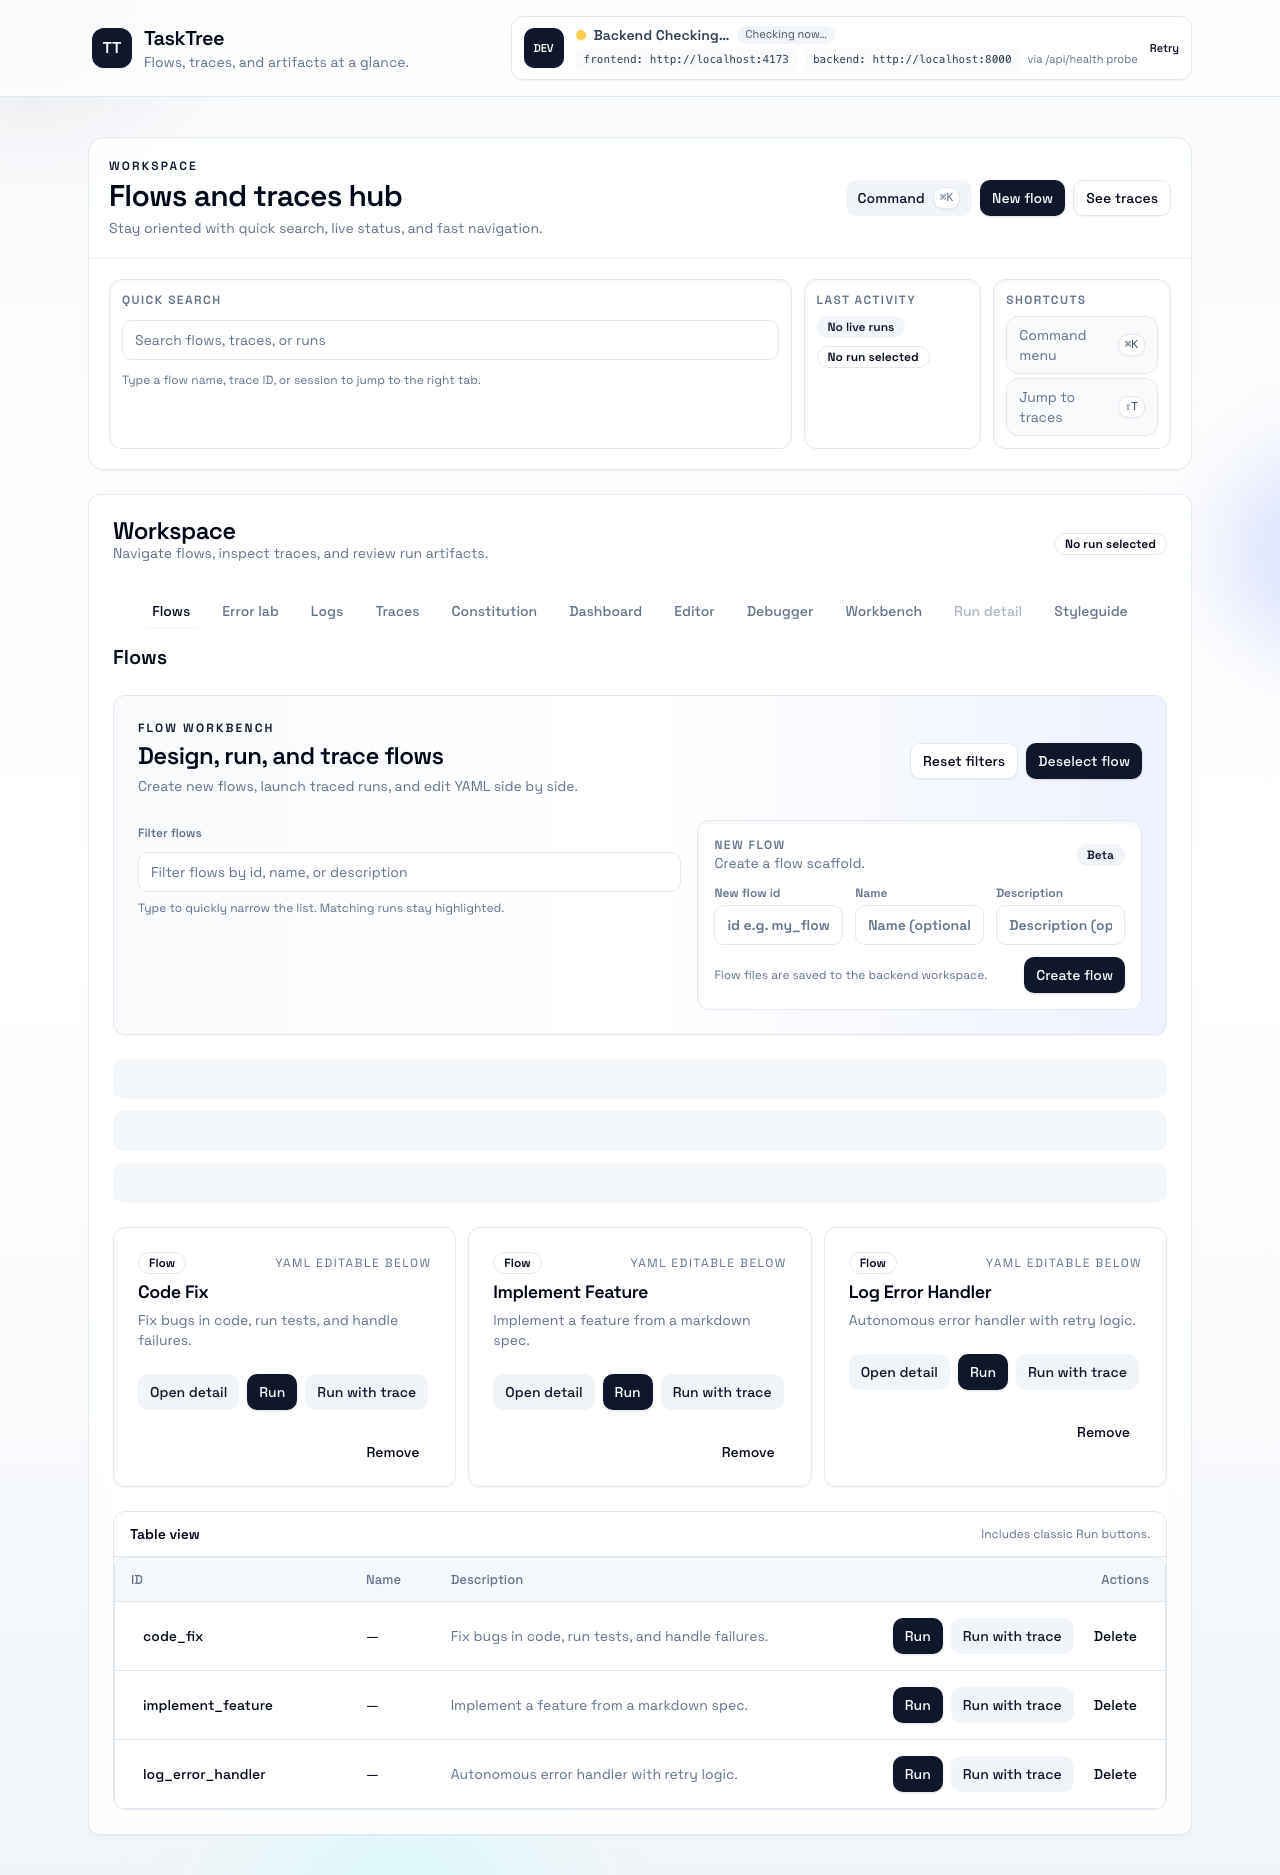
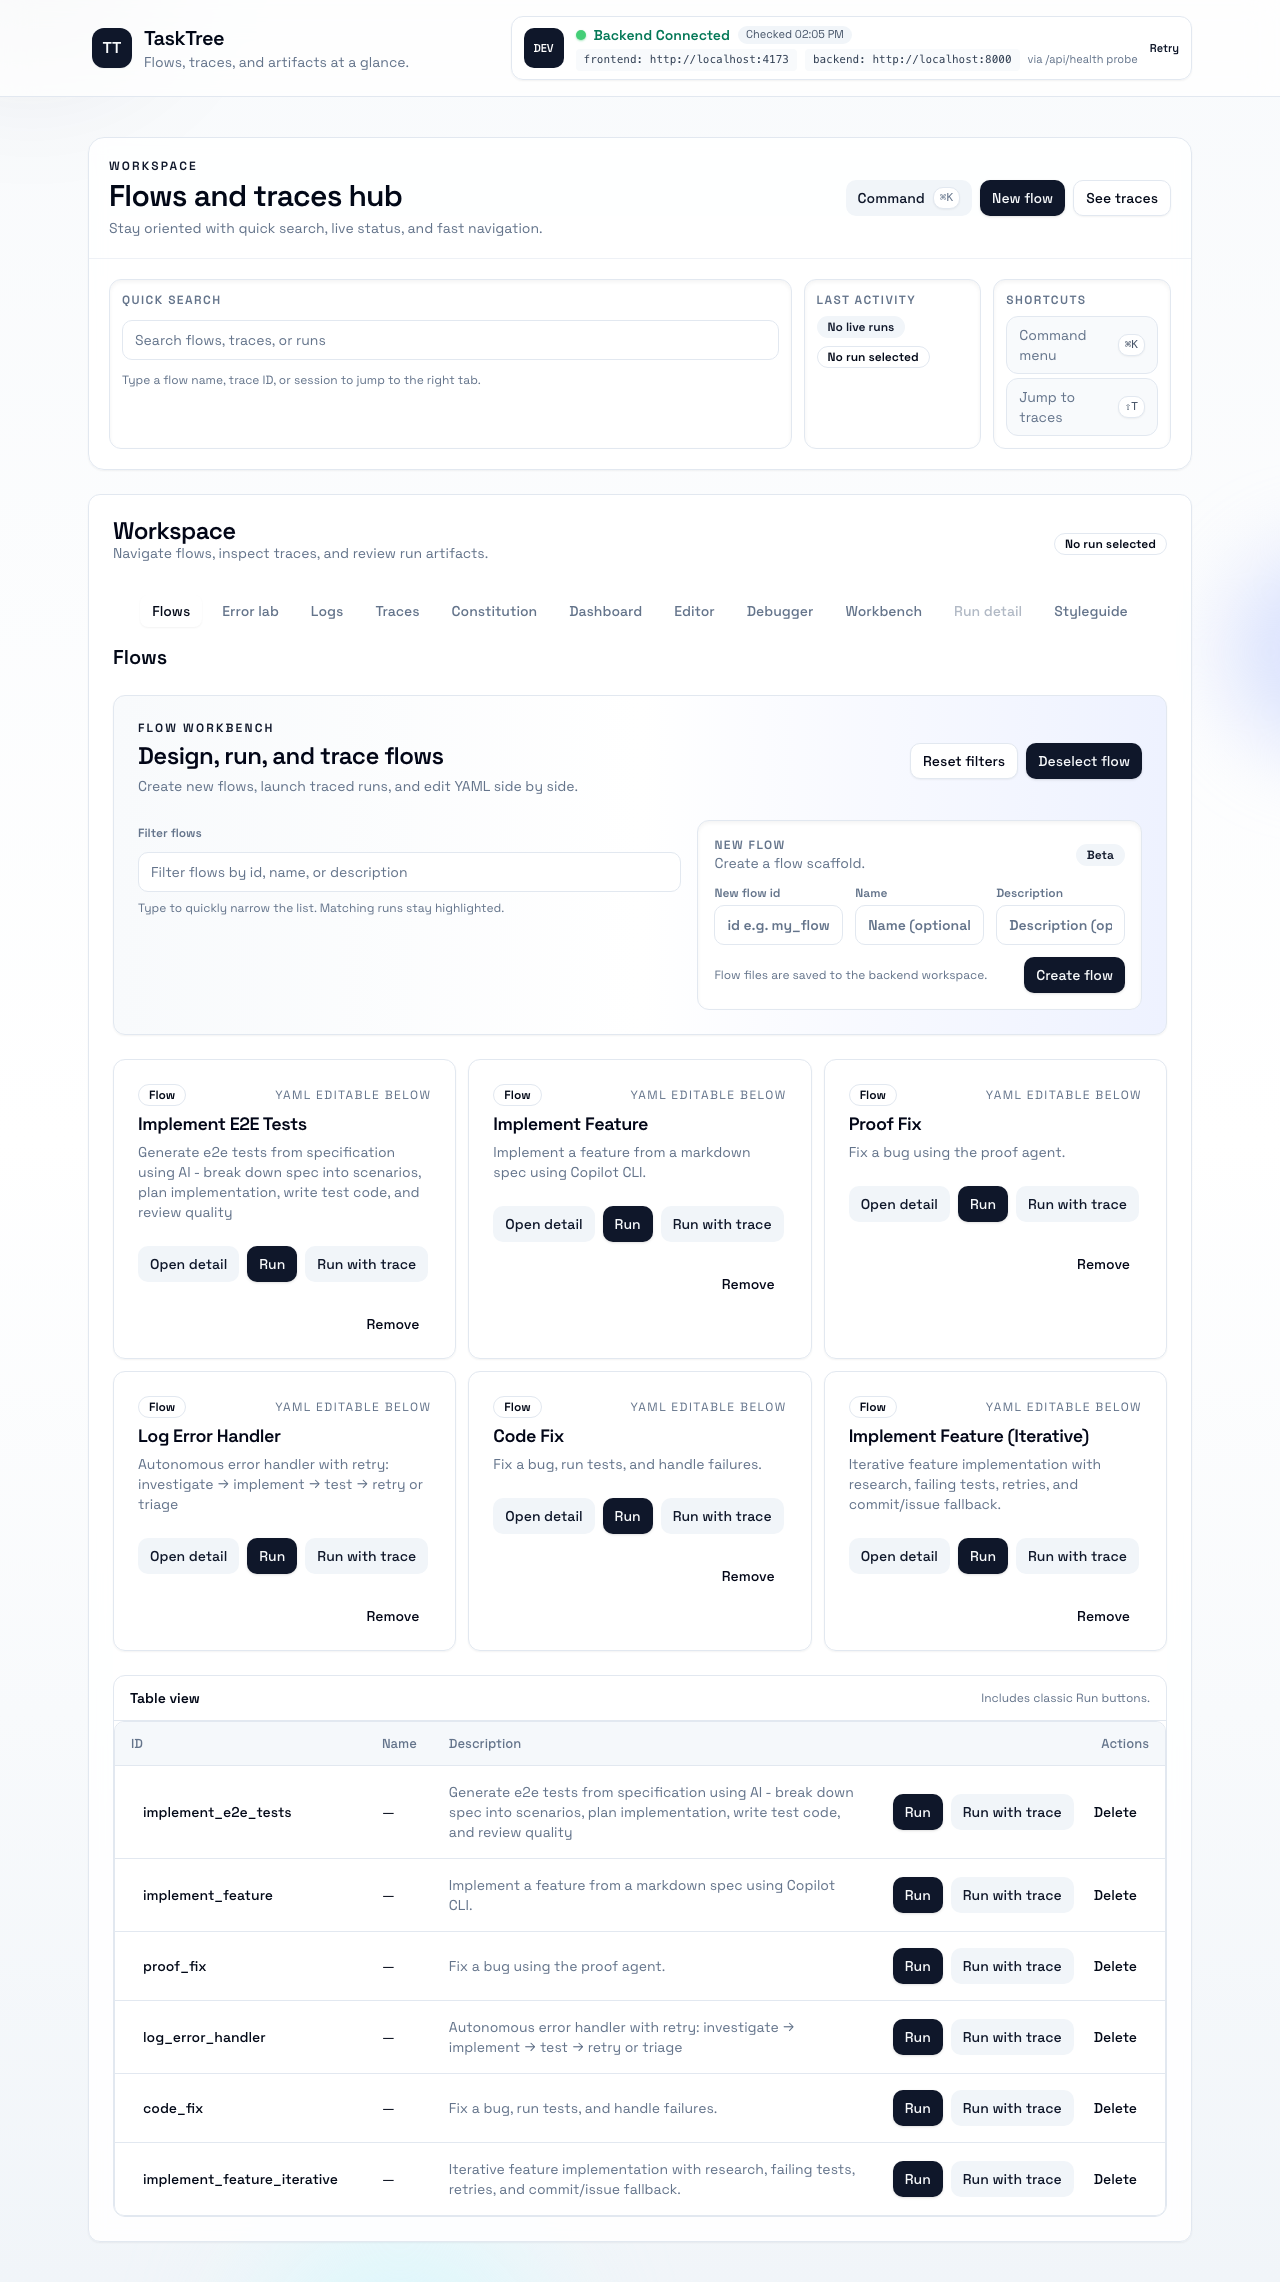
Add dark-mode UI screenshots and update capture flow

diff --git a/frontend/tests/e2e/screenshot.spec.ts b/frontend/tests/e2e/screenshot.spec.ts
@@ -3,8 +3,10 @@ import fs from "node:fs";
 import path from "node:path";
 
 const outDir = path.resolve(__dirname, "..", "..", "docs", "images");
-const heroPath = path.join(outDir, "ui-hero.png");
-const flowsPath = path.join(outDir, "ui-flows.png");
+const heroLight = path.join(outDir, "ui-hero.png");
+const flowsLight = path.join(outDir, "ui-flows.png");
+const heroDark = path.join(outDir, "ui-hero-dark.png");
+const flowsDark = path.join(outDir, "ui-flows-dark.png");
 
 test("capture hero and flows view screenshots", async ({ page, baseURL }) => {
   fs.mkdirSync(outDir, { recursive: true });
@@ -13,12 +15,19 @@ test("capture hero and flows view screenshots", async ({ page, baseURL }) => {
 
   const hero = page.getByTestId("workspace-hero");
   await expect(hero).toBeVisible();
-  await page.screenshot({ path: heroPath, fullPage: true });
+  await page.screenshot({ path: heroLight, fullPage: true });
 
   const flowsTab = page.getByRole("tab", { name: /Flows/i });
   await flowsTab.click();
   await page.waitForTimeout(300); // allow flows card/layout to settle
   const flowsCard = page.getByTestId("workspace-tabs");
   await expect(flowsCard).toBeVisible();
-  await page.screenshot({ path: flowsPath, fullPage: true });
+  await page.screenshot({ path: flowsLight, fullPage: true });
+
+  // Dark mode
+  await page.keyboard.press(process.platform === "darwin" ? "Meta+J" : "Control+J");
+  await page.waitForTimeout(250);
+  await page.screenshot({ path: heroDark, fullPage: true });
+  await page.waitForTimeout(250);
+  await page.screenshot({ path: flowsDark, fullPage: true });
 });

diff --git a/README.md b/README.md
@@ -119,9 +119,12 @@ See `docs/tasktree-cli-usage.md` for a complete walkthrough (tested in CI), `AGE
 - Styling conventions: prefer shared tokens (`--background`, `--primary`, `--radius`) over ad-hoc colors; use utility merges via `cn` from `@/lib/utils`.
 - Testing: run `npm run test` (Vitest) and `npm run e2e` (Playwright) after UI changes; Peekaboo captures live under `frontend/tests/e2e/peekaboo-*.spec.ts`.
 - Docs: see `docs/FE_SHADCN_CONTEXT.md` for design tokens/brand inputs and `docs/FE_SHADCN_GUIDE.md` for quick start + recipes.
+- Theme toggles: press `Cmd/Ctrl + J` to toggle dark mode in the app (uses the `.dark` theme variables in `frontend/src/index.css`).
 - Screenshots: latest UI previews live in `frontend/docs/images` (captured via `pnpm --dir frontend exec playwright test tests/e2e/screenshot.spec.ts --workers=1`).
-  - Workspace hero: ![TaskTree workspace hero](frontend/docs/images/ui-hero.png)
-  - Flows view: ![TaskTree flows view](frontend/docs/images/ui-flows.png)
+  - Workspace hero (light): ![TaskTree workspace hero](frontend/docs/images/ui-hero.png)
+  - Flows view (light): ![TaskTree flows view](frontend/docs/images/ui-flows.png)
+  - Workspace hero (dark): ![TaskTree workspace hero dark](frontend/docs/images/ui-hero-dark.png)
+  - Flows view (dark): ![TaskTree flows view dark](frontend/docs/images/ui-flows-dark.png)
 
 ## Lightweight archives
 - Use `make zip` (wraps `scripts/zip_repo.sh`) to produce a code-only archive that respects `.gitignore`. Defaults exclude heavy assets (node_modules, logs, caches); see `docs/repo-compression.md` for flags and the full inclusion/exclusion policy.
